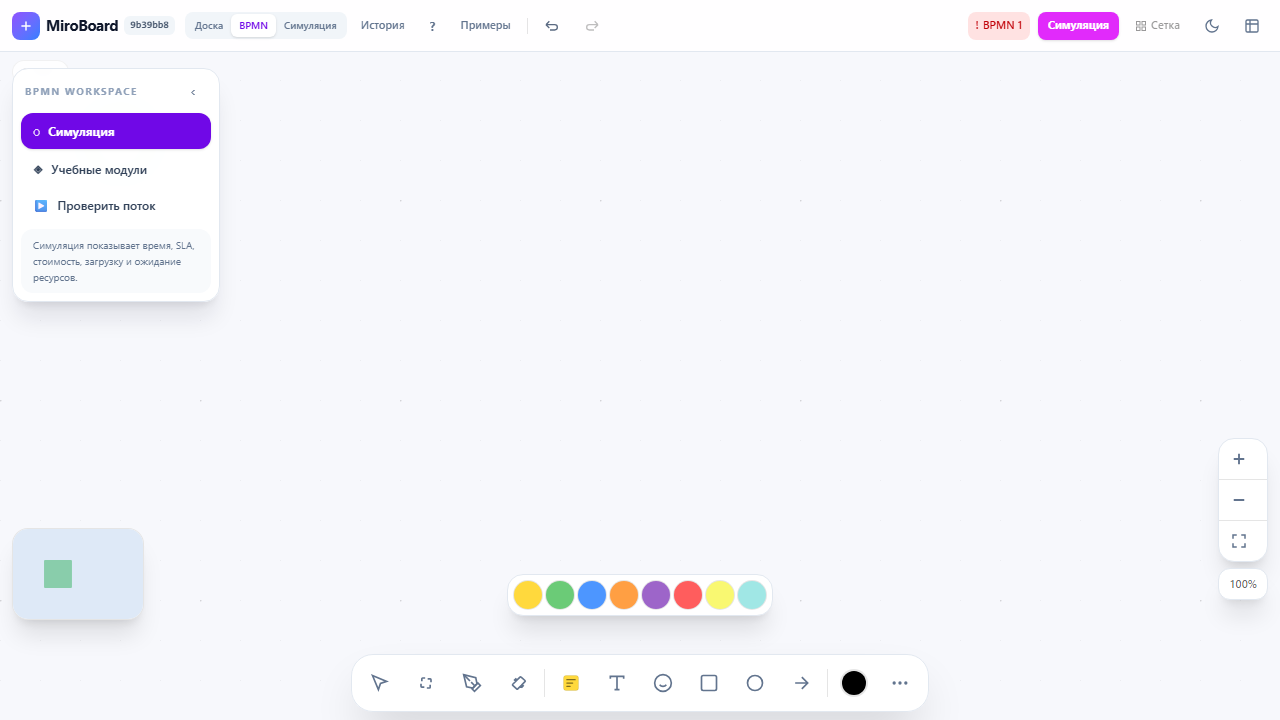
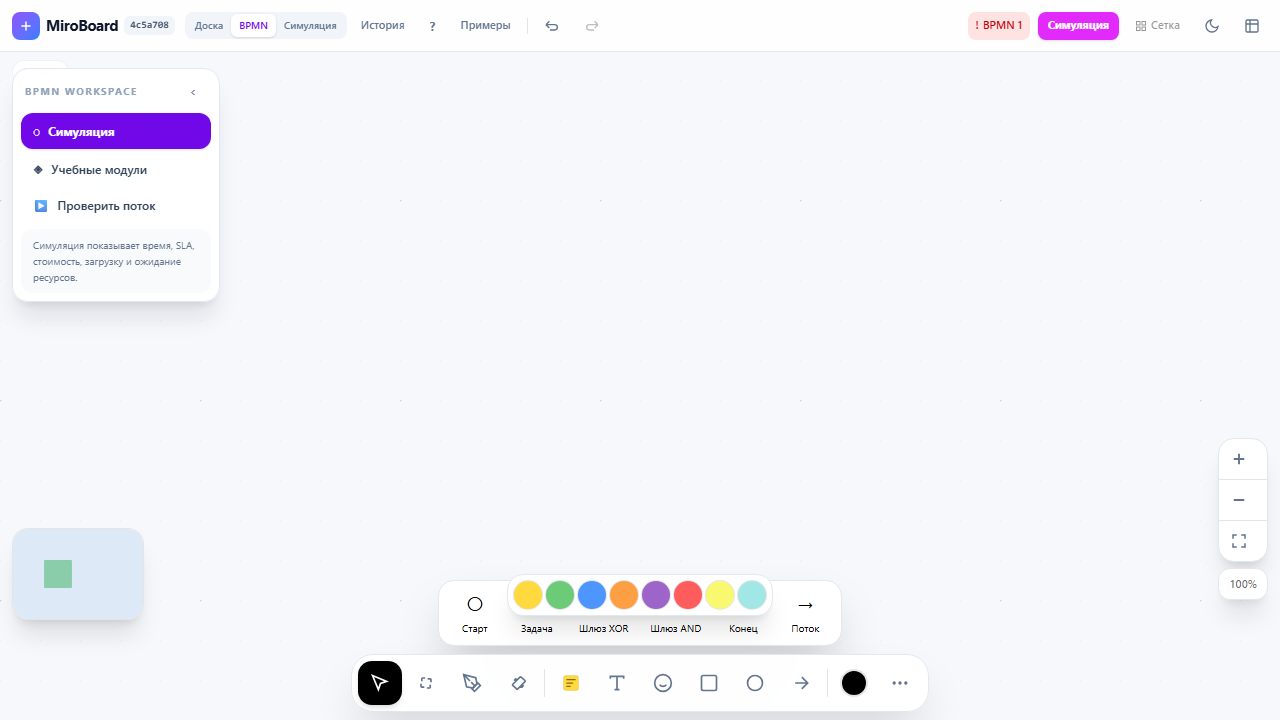
diagnose BPMN palette tool activation

Changed region(s): [[0.3438, 0.8556, 0.6562, 0.9167], [0.2812, 0.9167, 0.3125, 0.9778], [0.0938, 0.0306, 0.125, 0.0611]]

diff --git a/src/App.tsx b/src/App.tsx
@@ -791,6 +791,11 @@ export default function App() {
     setShowMore(false)
 
     const point = screenToWorld(e.clientX, e.clientY)
+    console.log('[BPMN diagnostic] canvas pointerdown before placement', JSON.stringify({
+      tool,
+      point,
+      paletteVisible: showBpmnPalette,
+    }))
     if (e.pointerType === 'touch' && e.isPrimary === false) return
 
     // Two fingers = pan
@@ -976,7 +981,7 @@ export default function App() {
       setIsDrawing(true)
       setCurrentPath([point])
     }
-  }, [tool, screenToWorld, transform, color, strokeWidth, addElement, deleteElement, user.id, selectedId, elements, selectedEmoji, bpmnFlowSourceId, setBpmnFlowSourceId, showToast, chooseTool])
+  }, [tool, screenToWorld, transform, color, strokeWidth, addElement, deleteElement, user.id, selectedId, elements, selectedEmoji, bpmnFlowSourceId, setBpmnFlowSourceId, showToast, chooseTool, showBpmnPalette])
 
   const handlePointerMove = useCallback((e: React.PointerEvent) => {
     const point = screenToWorld(e.clientX, e.clientY)
@@ -1691,7 +1696,14 @@ export default function App() {
 
           {showBpmnPalette && (
             <div className={`mb-2 mx-auto w-fit p-2 rounded-2xl ${dk ? 'bg-slate-800 border-slate-600' : 'bg-white'} shadow-2xl border ${borderC}`}>
-              <div className="flex gap-1.5">
+              <div className="flex gap-1.5" onClickCapture={(event) => {
+                const target = event.target as HTMLElement
+                console.log('[BPMN diagnostic] palette click capture', JSON.stringify({
+                  targetTitle: target.closest('button')?.title ?? null,
+                  paletteVisible: showBpmnPalette,
+                  tool,
+                }))
+              }}>
                 {([
                   { id: 'bpmnStart', label: 'Старт', icon: '○' },
                   { id: 'bpmnTask', label: 'Задача', icon: '▭' },
@@ -1700,8 +1712,25 @@ export default function App() {
                   { id: 'bpmnEnd', label: 'Конец', icon: '◉' },
                   { id: 'bpmnSequence', label: 'Поток', icon: '→' },
                 ] as { id: Tool; label: string; icon: string }[]).map(item => (
-                  <button key={item.id} onClick={() => {
+                  <button key={item.id} onClick={(event) => {
+                    const button = event.currentTarget
+                    const styles = window.getComputedStyle(button)
+                    const bounds = button.getBoundingClientRect()
+                    console.log('[BPMN diagnostic] palette button click start', JSON.stringify({
+                      id: item.id,
+                      label: item.label,
+                      currentTool: tool,
+                      paletteVisible: showBpmnPalette,
+                      visible: styles.display !== 'none' && styles.visibility !== 'hidden' && bounds.width > 0 && bounds.height > 0,
+                      clickable: !button.disabled && styles.pointerEvents !== 'none',
+                    }))
                     chooseTool(item.id)
+                    console.log('[BPMN diagnostic] palette button after chooseTool', JSON.stringify({
+                      id: item.id,
+                      currentTool: tool,
+                      requestedTool: item.id,
+                      note: 'React state updates commit after this handler returns',
+                    }))
                   }}
                     className={`min-w-14 h-12 px-2 rounded-xl grid place-items-center text-center transition active:scale-90 ${tool === item.id ? 'bg-violet-600 text-white' : hoverBg}`}
                     title={item.label}>

diff --git a/tests/bpmn-authoring-regression-suite.spec.ts b/tests/bpmn-authoring-regression-suite.spec.ts
@@ -27,6 +27,13 @@ async function elements(page: Page) {
 
 test.describe('BPMN authoring regression surface', () => {
   test('toolbar creates all six BPMN tools with the expected rendered shapes', async ({ page }) => {
+    page.on('console', message => {
+      if (message.text().startsWith('[BPMN diagnostic]')) {
+        void Promise.all(message.args().map(argument => argument.jsonValue())).then(values => {
+          console.log('[BPMN diagnostic browser]', JSON.stringify(values))
+        })
+      }
+    })
     await page.getByRole('button', { name: 'BPMN' }).click()
     const tools = [
       ['Старт', 'startEvent'], ['Задача', 'task'], ['Шлюз XOR', 'xorGateway'],
